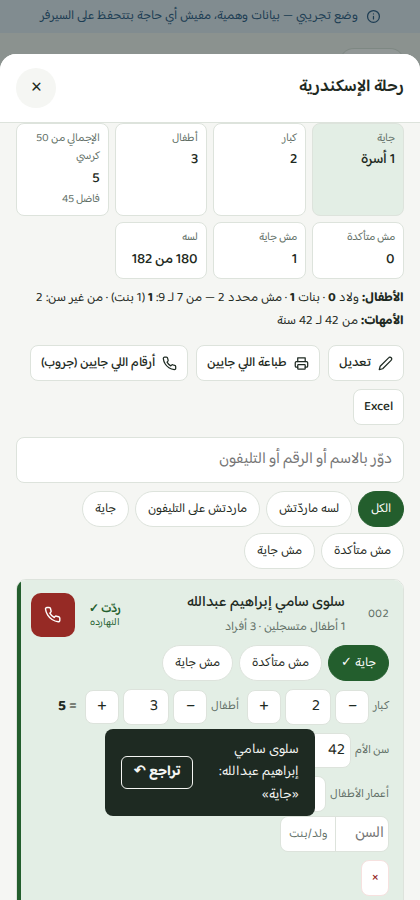
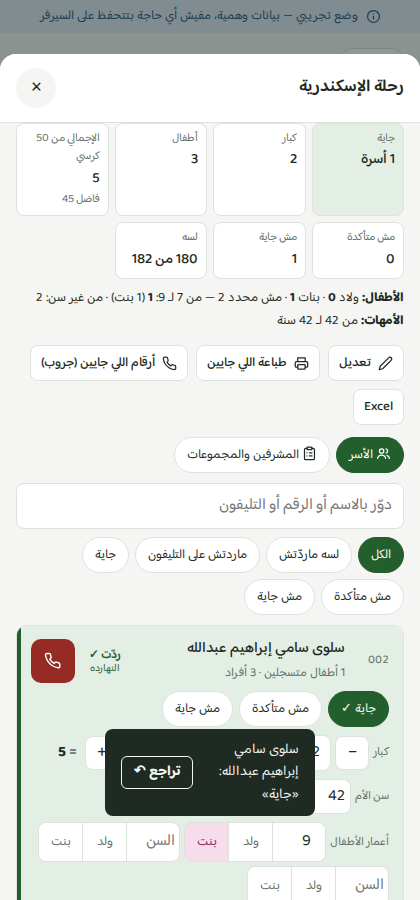
Trip supervisors and automatic kid groups (v1.3.30)
Supervisors per trip (sex, boys/girls/all, optional age range). Coming kids
are split by assignKids (core.js, tested): fitting rules, balanced counts,
siblings together; unplaced kids listed with the reason. Print and Excel.

Claude-Session: https://claude.ai/code/session_01QQNigkUkHPjuU8wEiS2QHJ

Changed region(s): [[0.031, 0.4667, 0.9595, 1.0], [0.0929, 0.9022, 0.4333, 0.9644], [0.2167, 0.56, 0.2786, 0.6222]]

diff --git a/app.js b/app.js
@@ -1,9 +1,9 @@
-import { MONTHS, norm, cleanPhone, validPhone, phoneIssue, jpegsToPdf, latinDigits, parseNID, isoDay, mIdx, mLabel, dLabel, addDays, age as ageAt, num, toNumber,
+import { MONTHS, norm, cleanPhone, validPhone, phoneIssue, jpegsToPdf, assignKids, latinDigits, parseNID, isoDay, mIdx, mLabel, dLabel, addDays, age as ageAt, num, toNumber,
   STAGE_GROUPS, STAGES, countStudents, rowsFromSheet, matchPerson, matchFileName, crossCheck, DAYS, weekdaysOf, dayLabel, daysText, normalizeStage, nextStage, inSchool, schoolYear, syLabel, famSize, shareFor, sortPool, planShares, PRIORITY, minPin } from "./core.js";
 import { ic } from "./icons.js";
 
 /* ================= config ================= */
-export const VERSION = "1.3.29";
+export const VERSION = "1.3.30";
 const SUPABASE_URL = "https://jvgxldhshbyyuftjgfrw.supabase.co";
 const SUPABASE_KEY = "sb_publishable_yS3OzVszjySNzCaRAyWpQA_pmKoPZJT";
 const DOMAIN = "daralekram.app";
@@ -2405,7 +2405,7 @@ function editEvent(id){
   });
 }
 function openEvent(id){
-  let q_="", only="all", addQ="";
+  let q_="", only="all", addQ="", etab="fam", supEdit=null;
   const ctx="ev:"+id;
   const FIL={ all:"الكل", open:"لسه ماردّتش", noans:"ماردتش على التليفون", "جاية":"جاية", "مش متأكدة":"مش متأكدة", "مش جاية":"مش جاية" };
   const stp=(r,f,lbl,on)=>`<span class="stp"><small>${lbl}</small>${on?`<button data-st="${r.id}" data-f="${f}" data-d="-1" aria-label="${lbl} ناقص">−</button>`:""}<input type="number" min="0" max="50" inputmode="numeric" data-num="${r.id}" data-f="${f}" value="${+r[f]||0}" ${on?"":"disabled"} aria-label="${lbl}">${on?`<button data-st="${r.id}" data-f="${f}" data-d="1" aria-label="${lbl} زيادة">+</button>`:""}</span>`;
@@ -2423,6 +2423,8 @@ function openEvent(id){
     ${t.kids||t.moms.length?`<div class="agesum">${t.kids?`<b>الأطفال:</b> ${bandsText(t.bands,true)}`:""}
       ${t.moms.length?`<br><b>الأمهات:</b> من ${num(Math.min(...t.moms))} لـ ${num(Math.max(...t.moms))} سنة${t.moms.length<t.yes?` <span class="muted">(${num(t.yes-t.moms.length)} من غير سن)</span>`:""}`:""}</div>`:""}
     <div class="bar">${cw?`<button class="btn sm" id="e_edit">${ic("edit")}تعديل</button>`:""}<button class="btn sm" id="e_print">${ic("printer")}طباعة اللي جايين</button><button class="btn sm" id="e_phones">${ic("phone")}أرقام اللي جايين (جروب)</button><button class="btn sm" id="e_x">Excel</button></div>
+    <div class="seg etabs" role="tablist"><button class="${etab==="fam"?"on":""}" data-etab="fam">${ic("users")} الأسر</button><button class="${etab==="sup"?"on":""}" data-etab="sup">${ic("list")} المشرفين والمجموعات${(e.supervisors||[]).length?` (${num(e.supervisors.length)})`:""}</button></div>
+    ${etab==="sup"?supPanel(id,supEdit):`
     <div class="row" style="margin:8px 0"><input type="search" id="e_q" placeholder="دوّر بالاسم أو الرقم أو التليفون" value="${esc(q_)}" style="flex:1 1 200px"></div>
     <div class="seg">${Object.entries(FIL).map(([k,l])=>`<button class="${only===k?"on":""}" data-evf="${k}">${l}</button>`).join("")}</div>
     <div class="list evlist">${rows.map(({r,b})=>{ const a=ANSWERS[r.answer], showN=r.answer==="جاية"||r.answer==="مش متأكدة", g=guessCounts(b);
@@ -2436,13 +2438,15 @@ function openEvent(id){
         ${showN||r.note?`<input type="text" class="evnote" data-note="${r.id}" value="${esc(r.note||"")}" placeholder="ملاحظة (مثال: معاها بنت أختها، محتاجة كرسي متحرك)" ${edit?"":"disabled"}>`:""}
         ${!showN&&!r.answer?`<span class="sub" style="font-size:12px">لو قالت جاية هنحط ${num(g.adults)} كبار و${num(g.kids)} أطفال وتقدر تعدّل</span>`:""}
       </div>`; }).join("")||`<div class="empty">مفيش نتيجة</div>`}</div>
-    ${cw?`<details class="addbox" ${addQ?"open":""}><summary>${ic("plus")}ضيف أسرة للرحلة</summary><input type="search" id="e_add" placeholder="اكتب الاسم أو رقم الحالة" value="${esc(addQ)}"><div id="e_addRes"></div></details>`:""}`;
+    ${cw?`<details class="addbox" ${addQ?"open":""}><summary>${ic("plus")}ضيف أسرة للرحلة</summary><input type="search" id="e_add" placeholder="اكتب الاسم أو رقم الحالة" value="${esc(addQ)}"><div id="e_addRes"></div></details>`:""}`}`;
   };
   const mount=s=>{
     const q=x=>s.querySelector(x);
     bindCalls(s, ()=>refreshSheet());
     s.querySelectorAll("[data-evf]").forEach(el=>el.onclick=()=>{ only=el.dataset.evf; refreshSheet(); });
-    const eq=q("#e_q"); eq.oninput=()=>{ q_=eq.value; const pos=eq.selectionStart; refreshSheet(); const n=$("#e_q"); if(n){ n.focus(); n.setSelectionRange(pos,pos); } };
+    s.querySelectorAll("[data-etab]").forEach(el=>el.onclick=()=>{ etab=el.dataset.etab; supEdit=null; refreshSheet(); });
+    bindSup(s, id, v=>{ supEdit=v; refreshSheet(); });
+    const eq=q("#e_q"); if(eq) eq.oninput=()=>{ q_=eq.value; const pos=eq.selectionStart; refreshSheet(); const n=$("#e_q"); if(n){ n.focus(); n.setSelectionRange(pos,pos); } };
     s.querySelectorAll("[data-ans]").forEach(el=>el.onclick=()=>{ const r=EP.get(el.dataset.ep), b=B.get(r.beneficiary_id), ans=el.dataset.ans, prev={ answer:r.answer, adults:r.adults, kids:r.kids, kid_ages:r.kid_ages||[], kid_sexes:r.kid_sexes||[], mother_age:r.mother_age??null };
       const next=r.answer===ans?{ answer:"" }:ans==="مش جاية"?{ answer:ans, adults:0, kids:0 }:{ answer:ans, ...((+r.adults||0)+(+r.kids||0)?(r.mother_age==null&&momAge(b)!=null?{ mother_age:momAge(b) }:{}):guessCounts(b)) };
       setRsvp(r.id,next); undoable(`${b.name}: ${next.answer?`«${next.answer}»`:"اتشال الرد"}`, ()=>setRsvp(r.id,prev)); });
@@ -2477,6 +2481,76 @@ function openEvent(id){
     body.innerHTML=draw(); mount($("#scrim"));
     if(key){ const n=body.querySelector(key); if(n){ n.value=val; n.focus(); if(pos!=null) n.setSelectionRange(pos,pos); } } };
   sheet(EV.get(id).title, draw(), mount, redraw); mine=sheetSeq;
+}
+/* ---------- trip supervisors & groups ---------- */
+const supOpen = new Set();   // groups / the add form left open survive redraws
+const newId = () => (crypto.randomUUID ? crypto.randomUUID() : String(Date.now()) + Math.random().toString(16).slice(2));
+const supRule = s => `${s.sex==="ست"?"بتاخد":"بياخد"} ${s.takes==="الكل"?"ولاد وبنات":s.takes}${s.min!==""&&s.min!=null&&s.max!==""&&s.max!=null?` من ${s.min} لـ ${s.max} سنة`:s.min!==""&&s.min!=null?` من ${s.min} سنة وأكبر`:s.max!==""&&s.max!=null?` لحد ${s.max} سنة`:" كل الأعمار"}`;
+// the kids coming (one entry per child) and how they're split right now
+function tripGroups(id){
+  const kids=[];
+  rsvps(id).filter(r=>r.answer==="جاية").forEach(r=>{ const b=B.get(r.beneficiary_id); if(!b) return;
+    kidsComing(r).forEach((k,i)=>kids.push({ id:r.id+":"+i, fam:b.id, a:k.a, sex:k.sex, mom:b.name, code:b.code, phone:cleanPhone(b.phone) })); });
+  const sups=EV.get(id)?.supervisors||[];
+  return { kids, sups, ...assignKids(kids, sups) };
+}
+const kidLine = k => `${k.sex||"ولد/بنت ؟"} · ${k.a!=null?`سن ${num(k.a)}`:"السن ؟"} — ${k.sex==="بنت"?"بنت":k.sex==="ولد"?"ابن":"ابن/بنت"} ${esc(k.mom)} (${esc(k.code)})`;
+const sexCount = g => { const b=g.filter(k=>k.sex==="ولد").length, gi=g.filter(k=>k.sex==="بنت").length; return [b?`${num(b)} ولد`:"",gi?`${num(gi)} بنت`:""].filter(Boolean).join("، "); };
+function supPanel(id, editing){
+  const e=EV.get(id), cw=canWrite(), { kids, sups, groups, left } = tripGroups(id), ed=editing?(sups.find(x=>x.id===editing)||null):null;
+  const form=cw?`<details class="addbox supform" data-keep="form" ${ed||!sups.length||supOpen.has("form")?"open":""}><summary>${ic(ed?"edit":"plus")}${ed?`تعديل «${esc(ed.name)}»`:"ضيف مشرف"}</summary>
+    <div class="grid2"><label class="f">الاسم<input type="text" id="su_n" value="${esc(ed?.name||"")}"></label>
+      <label class="f">راجل ولا ست<select id="su_s"><option ${ed?.sex==="راجل"?"selected":""}>راجل</option><option ${ed?.sex==="ست"?"selected":""}>ست</option></select></label>
+      <label class="f">بياخد / بتاخد مين<select id="su_t">${["ولاد","بنات","الكل"].map(x=>`<option value="${x}" ${(ed?ed.takes:"ولاد")===x?"selected":""}>${x==="الكل"?"ولاد وبنات":x}</option>`).join("")}</select></label>
+      <label class="f">التليفون (اختياري)<input type="tel" id="su_p" dir="ltr" value="${esc(ed?.phone||"")}"></label>
+      <label class="f">السن من (اختياري)<input type="number" id="su_min" min="0" max="25" value="${ed?.min??""}"></label>
+      <label class="f">لحد (اختياري)<input type="number" id="su_max" min="0" max="25" value="${ed?.max??""}"></label></div>
+    <div class="bar"><button class="btn pri" id="su_go" data-sid="${ed?.id||""}">${ic("save")}${ed?"حفظ":"ضيف"}</button>${ed?`<button class="btn" id="su_cancel">إلغاء</button>`:""}</div></details>`:"";
+  const placed=kids.length-left.length;
+  return `${!kids.length?`<div class="note">${ic("info")} <span>لسه مفيش أطفال جايين — لما تسجل «جاية» وعدد الأطفال في تاب «الأسر»، هيتقسموا هنا.</span></div>`:
+    `<div class="note ${left.length?"":"green"}">${ic("info")} <span>${num(kids.length)} طفل جايين — اتوزع ${num(placed)} على ${num(sups.length)} مشرف${left.length?` · <b>${num(left.length)} مش متوزعين</b> (تحت)`:""}. التوزيع بيتعمل لوحده ويتحدّث مع أي تغيير.</span></div>`}
+    ${form}
+    <div class="list supgroups">${sups.map(sp=>{ const g=groups.get(sp.id)||[]; return `<details class="item col supg" data-keep="${sp.id}" ${supOpen.has(sp.id)?"open":""}><summary class="row" style="width:100%">
+        <span class="chip ${sp.sex==="ست"?"girl":"boy"}">${sp.sex}</span><span class="grow"><span class="nm">${esc(sp.name)}</span><br><span class="sub">${supRule(sp)}${sp.phone?` · <span dir="ltr">${esc(sp.phone)}</span>`:""}</span></span>
+        <span class="supn"><b>${num(g.length)}</b> طفل${g.length?`<small>${sexCount(g)}${(()=>{ const ag=g.filter(k=>k.a!=null).map(k=>k.a); if(!ag.length) return ""; const lo=Math.min(...ag), hi=Math.max(...ag); return lo===hi?` · سن ${num(lo)}`:` · من ${num(lo)} لـ ${num(hi)} سنة`; })()}</small>`:""}</span></summary>
+        <div class="bar" style="margin:6px 0">${sp.phone?`<a class="btn sm" href="tel:${esc(cleanPhone(sp.phone))}">${ic("phone")}اتصل</a>`:""}${cw?`<button class="btn sm" data-sued="${sp.id}">${ic("edit")}تعديل</button><button class="btn sm danger" data-surm="${sp.id}">شيل</button>`:""}</div>
+        <ol class="kids">${g.map(k=>`<li>${kidLine(k)}</li>`).join("")||`<li class="sub">مفيش أطفال لحد دلوقتي</li>`}</ol></details>`; }).join("")}</div>
+    ${left.length?`<h4>مش متوزعين (${num(left.length)})</h4><div class="note red">${ic("alert")} <span>كمّل السن أو ولد/بنت في تاب «الأسر»، أو ضيف مشرف ليهم، أو وسّع سن مشرف.</span></div>
+      <ol class="kids">${left.map(x=>`<li>${kidLine(x.kid)} — <b>${esc(x.why)}</b></li>`).join("")}</ol>`:""}
+    ${sups.length&&kids.length?`<div class="bar"><button class="btn" id="su_print">${ic("printer")}طباعة المجموعات</button><button class="btn sm" id="su_x">Excel المجموعات</button></div>`:""}`;
+}
+async function saveSups(id, list, msg, undoPrev){
+  const { data, error } = await sb.from("events").update({ supervisors:list }).eq("id",id).select().single();
+  if(error){ toast(errMsg(error)); return false; } EV.set(id,data); changed();
+  if(undoPrev) undoable(msg, ()=>saveSups(id, undoPrev)); else if(msg) toast(msg);
+  return true;
+}
+function bindSup(s, id, setEdit){
+  const q=x=>s.querySelector(x);
+  s.querySelectorAll("details[data-keep]").forEach(d=>d.ontoggle=()=>{ d.open?supOpen.add(d.dataset.keep):supOpen.delete(d.dataset.keep); });
+  const sx=q("#su_s"), tk=q("#su_t"); if(sx&&tk) sx.onchange=()=>{ if(tk.value!=="الكل") tk.value=sx.value==="ست"?"بنات":"ولاد"; };
+  if(q("#su_go")) q("#su_go").onclick=async()=>{ const name=q("#su_n").value.trim(); if(!name){ toast("اكتب اسم المشرف"); return; }
+    const mn=q("#su_min").value, mx=q("#su_max").value; if(mn!==""&&mx!==""&&+mn>+mx){ toast("السن «من» أكبر من «لحد»"); return; }
+    const cur=EV.get(id).supervisors||[], sid=q("#su_go").dataset.sid, row={ id:sid||newId(), name, sex:q("#su_s").value, takes:q("#su_t").value, phone:q("#su_p").value.trim(), min:mn===""?null:+mn, max:mx===""?null:+mx };
+    if(await saveSups(id, sid?cur.map(x=>x.id===sid?row:x):[...cur,row], sid?"اتحفظ ✓":`${name} اتضاف ✓`)){ supOpen.delete("form"); setEdit(null); } };
+  if(q("#su_cancel")) q("#su_cancel").onclick=()=>setEdit(null);
+  s.querySelectorAll("[data-sued]").forEach(el=>el.onclick=e=>{ e.preventDefault(); setEdit(el.dataset.sued); });
+  s.querySelectorAll("[data-surm]").forEach(el=>el.onclick=e=>{ e.preventDefault(); const cur=EV.get(id).supervisors||[], sp=cur.find(x=>x.id===el.dataset.surm);
+    saveSups(id, cur.filter(x=>x.id!==sp.id), `${sp.name} اتشال — الأطفال بتوعه اتوزعوا على الباقيين`, cur); });
+  if(q("#su_print")) q("#su_print").onclick=()=>doPrint(groupsHTML(id), EV.get(id).title+" — المجموعات");
+  if(q("#su_x")) q("#su_x").onclick=()=>{ const { sups, groups, left } = tripGroups(id), rows=[["المشرف","راجل/ست","السن","ولد/بنت","الأم","رقم الحالة","تليفون الأم"]];
+    sups.forEach(sp=>(groups.get(sp.id)||[]).forEach(k=>rows.push([sp.name,sp.sex,k.a??"",k.sex||"",k.mom,k.code,k.phone])));
+    left.forEach(x=>rows.push(["مش متوزع: "+x.why,"",x.kid.a??"",x.kid.sex||"",x.kid.mom,x.kid.code,x.kid.phone]));
+    xlsx({"المجموعات":rows},`${EV.get(id).title} — المجموعات.xlsx`); };
+}
+function groupsHTML(id){
+  const e=EV.get(id), { sups, groups, left } = tripGroups(id);
+  return `<div class="ps">${hdr()}<h1>${esc(e.title)} — مجموعات المشرفين</h1><div class="mo">${e.date?dLabel(e.date):""}${e.place?" — "+esc(e.place):""}</div>
+    ${sups.map(sp=>{ const g=groups.get(sp.id)||[]; return `<h3 style="margin:12px 0 4px">${esc(sp.name)} (${sp.sex})${sp.phone?` — ${esc(sp.phone)}`:""} — ${num(g.length)} طفل${g.length?` (${sexCount(g)})`:""}</h3>
+      <table><thead><tr><th>م</th><th>السن</th><th>ولد/بنت</th><th>الأم</th><th>رقم الحالة</th><th>تليفون الأم</th><th>حضر</th><th>رجع</th></tr></thead><tbody>
+      ${g.map((k,i)=>`<tr><td>${i+1}</td><td>${k.a??""}</td><td>${k.sex||""}</td><td class="nm">${esc(k.mom)}</td><td>${esc(k.code)}</td><td>${esc(k.phone)}</td><td class="sig"></td><td class="sig"></td></tr>`).join("")}</tbody></table>`; }).join("")}
+    ${left.length?`<h3>مش متوزعين (${num(left.length)})</h3><table><tbody>${left.map((x,i)=>`<tr><td>${i+1}</td><td>${x.kid.a??""}</td><td>${x.kid.sex||""}</td><td class="nm">${esc(x.kid.mom)}</td><td>${esc(x.kid.code)}</td><td>${esc(x.why)}</td></tr>`).join("")}</tbody></table>`:""}
+    ${signsHTML()}</div>`;
 }
 function eventHTML(id){
   const e=EV.get(id), t=eventTotals(id), rows=rsvps(id).filter(r=>r.answer==="جاية").map(r=>({ r, b:B.get(r.beneficiary_id) })).filter(x=>x.b).sort((a,b)=>String(a.b.code).localeCompare(String(b.b.code),"en",{numeric:true}));

diff --git a/tests/core.test.js b/tests/core.test.js
@@ -1,7 +1,7 @@
 // Run: npm test
 import { test } from "node:test";
 import assert from "node:assert/strict";
-import { parseNID, latinDigits, norm, cleanPhone, validPhone, phoneIssue, jpegsToPdf, age, mIdx, mLabel, toNumber } from "../core.js";
+import { parseNID, latinDigits, norm, cleanPhone, validPhone, phoneIssue, jpegsToPdf, assignKids, age, mIdx, mLabel, toNumber } from "../core.js";
 
 const today = new Date("2026-09-24T12:00:00");
 
@@ -232,4 +232,28 @@ test("jpegsToPdf builds a PDF whose xref points at every object", () => {
   const offs = [...txt.slice(startx).matchAll(/^(\d{10}) 00000 n $/gm)].map(m => +m[1]);
   assert.equal(offs.length, 8);
   offs.forEach((o, i) => assert.equal(txt.slice(o, o + String(i + 1).length + 6), `${i + 1} 0 obj`));
+});
+
+test("assignKids splits kids by sex and age range, balanced, siblings together", () => {
+  const kids = [
+    { id:"1", fam:"A", a:5, sex:"ولد" }, { id:"2", fam:"A", a:7, sex:"ولد" }, { id:"3", fam:"B", a:6, sex:"ولد" }, { id:"4", fam:"C", a:8, sex:"ولد" },
+    { id:"5", fam:"B", a:9, sex:"بنت" }, { id:"6", fam:"D", a:12, sex:"بنت" }, { id:"7", fam:"E", a:null, sex:"بنت" }, { id:"8", fam:"F", a:4, sex:null },
+    { id:"9", fam:"G", a:15, sex:"ولد" },
+  ];
+  const sups = [ { id:"m1", takes:"ولاد", min:0, max:10 }, { id:"m2", takes:"ولاد", min:0, max:10 }, { id:"w1", takes:"بنات", min:"", max:"" } ];
+  const { groups, left } = assignKids(kids, sups);
+  const ids = s => groups.get(s).map(k => k.id);
+  assert.equal(ids("m1").length + ids("m2").length, 4);                 // the four boys up to 10
+  assert.ok(Math.abs(ids("m1").length - ids("m2").length) <= 1);         // balanced
+  const withA = ["m1","m2"].find(s => ids(s).includes("1"));
+  assert.ok(ids(withA).includes("2"));                                    // brothers together
+  assert.deepEqual(ids("w1").sort(), ["5","6","7"]);                       // girls, any age (even unknown)
+  assert.deepEqual(left.map(x => x.kid.id).sort(), ["8","9"]);
+  assert.equal(left.find(x => x.kid.id === "8").why, "مش محدد ولد ولا بنت");
+  assert.match(left.find(x => x.kid.id === "9").why, /مفيش مشرف ولاد لسن 15/);
+  assert.deepEqual(groups.get("w1").map(k => k.a), [9, 12, null]);        // sorted by age, unknown last
+});
+test("assignKids: no supervisors → everyone left with a reason", () => {
+  const { left } = assignKids([{ id:"1", fam:"A", a:3, sex:"ولد" }], []);
+  assert.equal(left[0].why, "مفيش مشرفين لسه");
 });

diff --git a/core.js b/core.js
@@ -285,3 +285,32 @@ export function jpegsToPdf(pages){
   put(`trailer\n<< /Size ${total} /Root 1 0 R >>\nstartxref\n${xref}\n%%EOF\n`);
   const out = new Uint8Array(len); let at = 0; for(const b of parts){ out.set(b, at); at += b.length; } return out;
 }
+
+/* Trip groups: split the coming kids between the supervisors.
+   kids: [{ id, fam, a (age or null), sex ("ولد" | "بنت" | null) }]
+   sups: [{ id, takes: "ولاد" | "بنات" | "الكل", min?, max? }]
+   A kid only goes to a supervisor who fits (boys / girls, age range). Hardest-to-place kids go first, the least
+   loaded supervisor gets the next one, and brothers & sisters stay with one supervisor unless that unbalances things.
+   → { groups: Map(supId → kids sorted by age), left: [{ kid, why }] } */
+export function assignKids(kids, sups){
+  const groups = new Map(sups.map(s => [s.id, []])), left = [];
+  const has = v => v !== null && v !== undefined && v !== "";
+  const fits = (s, k) => !(s.takes === "ولاد" && k.sex !== "ولد") && !(s.takes === "بنات" && k.sex !== "بنت")
+    && !(has(s.min) && (!has(k.a) || k.a < +s.min)) && !(has(s.max) && (!has(k.a) || k.a > +s.max));
+  const why = k => {
+    if(!sups.length) return "مفيش مشرفين لسه";
+    if(!has(k.sex) && sups.every(s => s.takes !== "الكل")) return "مش محدد ولد ولا بنت";
+    if(!has(k.a) && sups.filter(s => s.takes === "الكل" || s.takes === (k.sex === "ولد" ? "ولاد" : "بنات")).every(s => has(s.min) || has(s.max))) return "سنه مش مكتوب";
+    return `مفيش مشرف ${k.sex === "بنت" ? "بنات" : k.sex === "ولد" ? "ولاد" : ""} لسن ${has(k.a) ? k.a : "؟"}`.replace(/\s+/g, " ");
+  };
+  const order = kids.map(k => ({ k, el: sups.filter(s => fits(s, k)) }))
+    .sort((x, y) => x.el.length - y.el.length || String(x.k.fam).localeCompare(String(y.k.fam)) || (y.k.a ?? -1) - (x.k.a ?? -1));
+  for(const { k, el } of order){
+    if(!el.length){ left.push({ kid: k, why: why(k) }); continue; }
+    const n = s => groups.get(s.id).length, min = Math.min(...el.map(n));
+    const sib = el.find(s => groups.get(s.id).some(x => x.fam === k.fam) && n(s) <= min + 1);
+    groups.get((sib || el.reduce((b, s) => n(s) < n(b) ? s : b)).id).push(k);
+  }
+  for(const g of groups.values()) g.sort((x, y) => (x.a ?? 99) - (y.a ?? 99));
+  return { groups, left };
+}

diff --git a/demo.js b/demo.js
@@ -117,7 +117,7 @@ export function createDemoClient(){
           if(table === "beneficiaries" && r.national_id && rows().some(x => x.national_id === r.national_id && x.id !== r.id)) throw { message: "duplicate key value violates unique constraint national_id" };
           const i = r.id ? rows().findIndex(x => x.id === r.id) : -1;
           if(i >= 0){ Object.assign(rows()[i], r); return rows()[i]; }
-          const row = { id: r.id || (table === "activity_log" ? rows().length + 1 : uuid()), created_at: now, ...(table === "activity_log" || table === "calls" ? { at: now, by: session.user.id } : {}), ...(table === "beneficiaries" ? { archived_at: null, tags: [], photos: {} } : {}), ...(["donations","ledger","stock_moves"].includes(table) ? { date: now.slice(0, 10), cancelled_at: null } : {}), ...(table === "donations" ? { receipt_no: rows().length + 1 } : {}), ...(table === "events" ? { place: "", notes: "", capacity: null, archived_at: null } : {}), ...(table === "event_people" ? { answer: "", adults: 0, kids: 0, kid_ages: [], kid_sexes: [], mother_age: null, note: "", updated_at: now } : {}), ...r };
+          const row = { id: r.id || (table === "activity_log" ? rows().length + 1 : uuid()), created_at: now, ...(table === "activity_log" || table === "calls" ? { at: now, by: session.user.id } : {}), ...(table === "beneficiaries" ? { archived_at: null, tags: [], photos: {} } : {}), ...(["donations","ledger","stock_moves"].includes(table) ? { date: now.slice(0, 10), cancelled_at: null } : {}), ...(table === "donations" ? { receipt_no: rows().length + 1 } : {}), ...(table === "events" ? { place: "", notes: "", capacity: null, archived_at: null, supervisors: [] } : {}), ...(table === "event_people" ? { answer: "", adults: 0, kids: 0, kid_ages: [], kid_sexes: [], mother_age: null, note: "", updated_at: now } : {}), ...r };
           rows().push(row); return row;
         });
         return { data: st.single ? out[0] : out, error: null };

diff --git a/index.html b/index.html
@@ -296,6 +296,10 @@ h4{font-size:14px;margin:14px 0 6px;color:var(--muted);font-weight:600}
 .stp input{width:46px;text-align:center;padding:4px;min-height:34px}
 .ages{display:inline-flex;align-items:center;gap:4px;flex-wrap:wrap}.ages small{font-size:12px;color:var(--muted)}.ages input{width:44px;text-align:center;padding:4px;min-height:34px}
 .kid{display:inline-flex;border:1px solid var(--line);border-radius:8px;overflow:hidden}.kid input{border:0;border-radius:0;width:52px}.sx{border:0;border-inline-start:1px solid var(--line);background:var(--card);color:var(--muted);font-size:13px;padding:0 10px;min-height:38px;min-width:44px}.sx.boy{background:#DCE9F7;color:#1F4E8A}.sx.girl{background:#F7DCEB;color:#8A1F5A}
+.supg summary{list-style:none;cursor:pointer;gap:10px;align-items:center}.supg summary::-webkit-details-marker{display:none}
+.supn{text-align:center;font-size:13px;min-width:70px}.supn b{font-size:20px;display:block;line-height:1.1}.supn small{display:block;color:var(--muted);font-size:11.5px}
+.chip.boy{background:#DCE9F7;color:#1F4E8A}.chip.girl{background:#F7DCEB;color:#8A1F5A}
+ol.kids{margin:4px 0 8px;padding-inline-start:22px;font-size:13.5px;line-height:1.9}
 .agesum{font-size:13px;margin:-6px 0 10px;line-height:1.8}.agesum .muted{color:var(--muted)}
 .evsum{font-size:15px}.evnote{width:100%;font-size:13px;min-height:34px}
 label.chk{display:flex;gap:8px;align-items:center;margin:6px 0}label.chk input{width:20px;height:20px}

diff --git a/sw.js b/sw.js
@@ -1,6 +1,6 @@
 // Service worker: keeps the app shell on the device so it opens without internet.
 // Case data never goes through here — it comes live from Supabase (plus the app's own offline copy).
-const VERSION = "v1.3.29";
+const VERSION = "v1.3.30";
 const SHELL = `shell-${VERSION}`, STATIC = "static-v2";
 const APP = ["./", "index.html", "app.js", "core.js", "icons.js", "manifest.webmanifest", "icon-192.png", "icon-512.png", "icon-maskable-192.png", "icon-maskable-512.png", "apple-touch-icon.png"];
 // Pinned third-party files never change at the same URL, so they can be cache-first forever.

diff --git a/CHANGELOG.md b/CHANGELOG.md
@@ -1,5 +1,11 @@
 # سجل التغييرات
 
+## 1.3.30 — 27 سبتمبر 2026
+- **مشرفين الرحلة والمجموعات:** في الرحلة تاب جديد «المشرفين والمجموعات». تضيف كل مشرف: اسمه، راجل ولا ست، بياخد مين (ولاد / بنات / الاتنين)، ولو عايز رينج سن (مثلاً من 4 لـ 8)، وتليفونه.
+- الأطفال اللي جايين بيتقسموا لوحدهم على المشرفين: كل طفل عند مشرف يناسب نوعه وسنه، والعدد متوازن بينهم، والإخوات مع بعض على قد ما يقدر. أي تغيير (رد جديد، سن، مشرف اتضاف أو اتشال) التقسيم بيتحدّث على طول.
+- لكل مشرف: عدد الأطفال (كام ولد وكام بنت) وسنهم، وأسماءهم (ابن / بنت فلانة ورقم الحالة). واللي ماينفعش يتوزع بيظهر تحت بالسبب (مش محدد ولد ولا بنت، سنه مش مكتوب، مفيش مشرف لسنه).
+- طباعة المجموعات (جدول لكل مشرف بعمودين «حضر» و«رجع») وExcel.
+
 ## 1.3.29 — 27 سبتمبر 2026
 - الرحلات: «ولد» و«بنت» بقوا زرارين جنب سن كل طفل بدل زرار واحد بيلف. اللي متختار بيتلوّن، ودوسة تانية عليه تلغيه.
 
